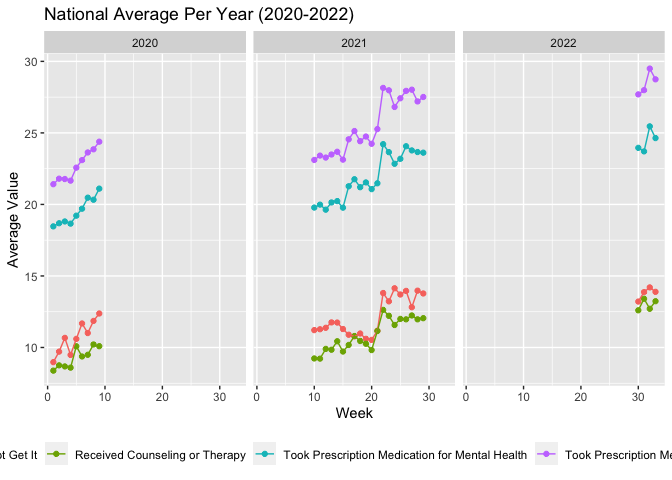
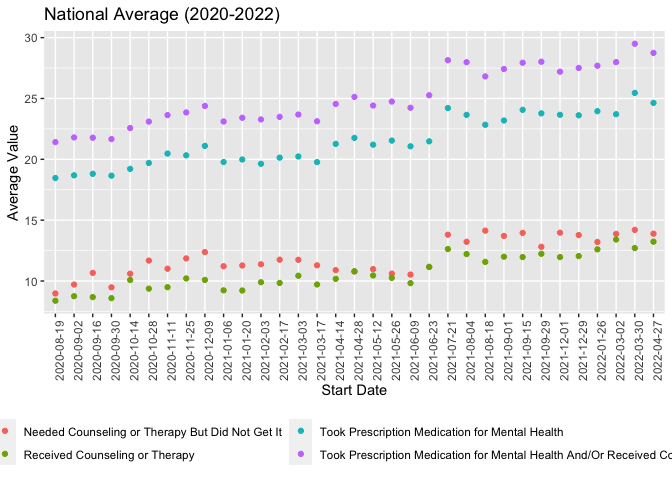
Updated the plot for national average by using the start day rather than year or week numbers as the x axis, edited the legend, and updated the title

diff --git a/EDA_AR.md b/EDA_AR.md
@@ -27,39 +27,39 @@ data =
   read.csv("data/tidydata.csv")
 ```
 
-EDA for National Average Per Year
+## EDA for National Average
 
 ``` r
 avg_year =
   data |> 
   filter(state == "United States") |> 
-  select(indicator, year, week_number, value) |> 
-  group_by(year, indicator, week_number) |> 
+  select(indicator, year, week_number, value, start_dates) |> 
+  group_by(year, start_dates, indicator) |> 
   summarize(
     mean = mean(value),
     indicator_total = n()
   )
 ```
 
-    ## `summarise()` has grouped output by 'year', 'indicator'. You can override using
-    ## the `.groups` argument.
+    ## `summarise()` has grouped output by 'year', 'start_dates'. You can override
+    ## using the `.groups` argument.
 
 ``` r
 # plot average per year for each indicator
 avg_year |> 
-  ggplot(aes(x = week_number, y = mean, color = indicator)) +
+  ggplot(aes(x = start_dates, y = mean, color = indicator)) +
   geom_point() +
-  geom_line() +
   labs(
-    x = "Week",
+    x = "Start Date",
     y = "Average Value",
-    color = "Indicator",
-    title = "National Average Per Year (2020-2022)",
+    title = "National Average (2020-2022)",
   ) +
   theme(
-    legend.position = "bottom"
+    legend.position = "bottom",
+    axis.text.x = element_text(angle=90, hjust=1),
+    strip.text = element_text(size = 4)
   ) +
-  facet_grid(~ year)
+  guides(color = guide_legend(nrow = 2))
 ```
 
 ![](EDA_AR_files/figure-gfm/unnamed-chunk-3-1.png)<!-- -->
